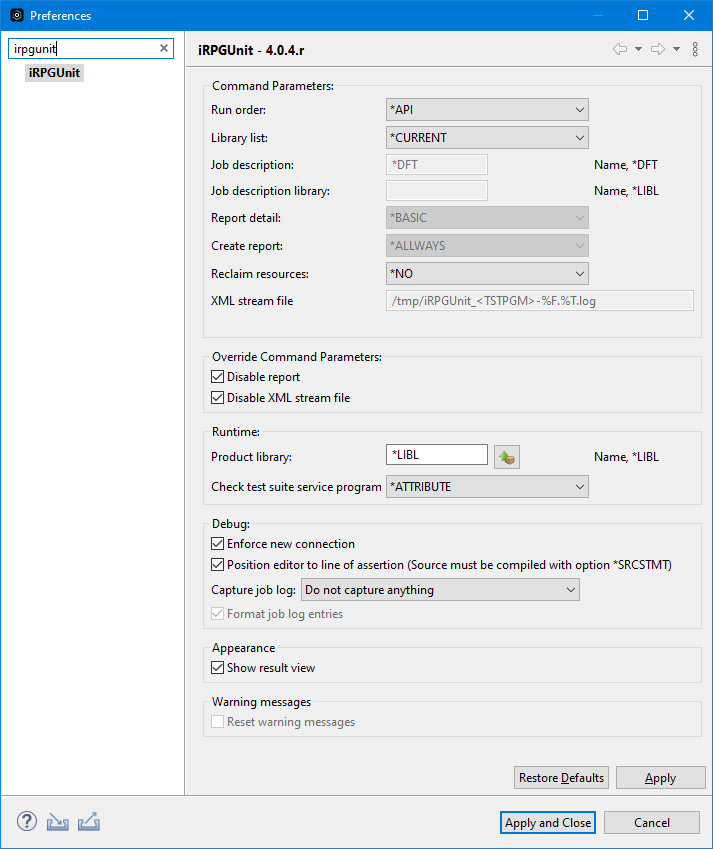
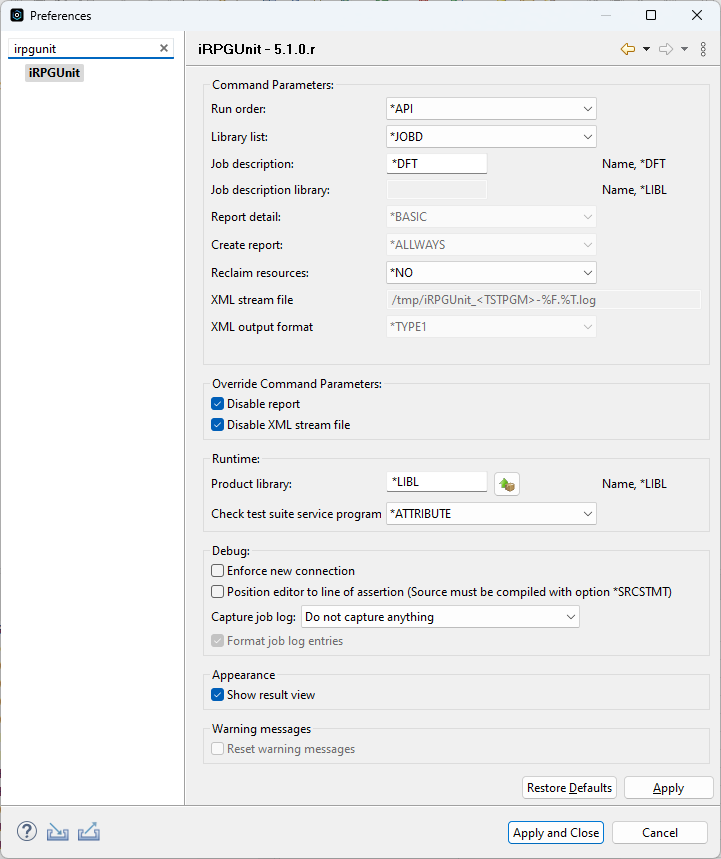
Update documentation.

diff --git a/eclipse/iRPGUnit Help Plugin/nl/de/html/quickstart/preferences.html b/eclipse/iRPGUnit Help Plugin/nl/de/html/quickstart/preferences.html
@@ -158,7 +158,18 @@ Die Tabelle entält einige aber nicht alle Variablen der Funktion strftime(). Ei
 Variablen, die hier nicht gelistet sind, sind nicht erlaubt, weil deren Werte zu 
 einem ungültige Pfadnamen führen würden.
 
-<h3>Ausschalten Protokoll</h3>
+<h3>XML Ausgabeformat</h3>
+Gibt das Format der XML Ausgabedatei an:<p>
+<table width="80%">
+<colgroup>
+ <col width="100">
+</colgroup>
+<tr><td valign="top">*TYPE1</td><td>Format von iRPGUnit <= v5.1.0.r. Element <code>&lt;failure&gt;</code> (Aufrufstapel) wird als Text ausgegeben.</td></tr> 
+<tr><td valign="top">*TYPE2</td><td>Format von iRPGUnit >= v6.0.0.r. Element <code>&lt;failure&gt;</code> (Aufrufstapel) wird als Json ausgegeben.</td></tr> 
+</table>
+<p>
+
+<h3>Deaktivieren Protokoll</h3>
 Unabhängig von der Einstellung des Parameters <i>'Erstellen Protokoll'</i> kann hiermit die Druckausgabe temporär 
 ausgeschaltet werden, sofern <i>'Erstellen Protokoll'</i> nicht auf <i>'*NONE'</i> gesetzt ist. Dieser Schalter
 korrespondiert mit der Schaltfläche <i>'Testprotokoll aus-/einschalten'</i> der <i>'RPGUnit'</i> View.<p>

diff --git a/eclipse/iRPGUnit Help Plugin/html/quickstart/preferences.html b/eclipse/iRPGUnit Help Plugin/html/quickstart/preferences.html
@@ -152,6 +152,17 @@ The table above shows some but not all variables of the strftime()
 function. Some replacement variables, which are not listed here, are
 not allowed, because their values may produce an invalid path.
 
+<h3>XML output format</h3>
+Specifies the format of the XML output stream file:<p>
+<table width="80%">
+<colgroup>
+ <col width="100">
+</colgroup>
+<tr><td valign="top">*TYPE1</td><td>Legacy type that is used by iRPGUnit <= v5.1.0.r. Element <code>&lt;failure&gt;</code> (call stack) is append as text.</td></tr> 
+<tr><td valign="top">*TYPE2</td><td>This type was introduced with iRPGUnit >= v6.0.0.r. Element <code>&lt;failure&gt;</code> (call stack) is append in Json format.</td></tr> 
+</table>
+<p>
+
 <h3>Disable report</h3>
 Temporary disables the report, provided that <i>'Create report'</i> does not specify <i>'*NONE'</i>. This checkbox
 relates to button <i>'Disable iRPGUnit report'</i> of the <i>'iRPGUnit'</i> view.<p>
